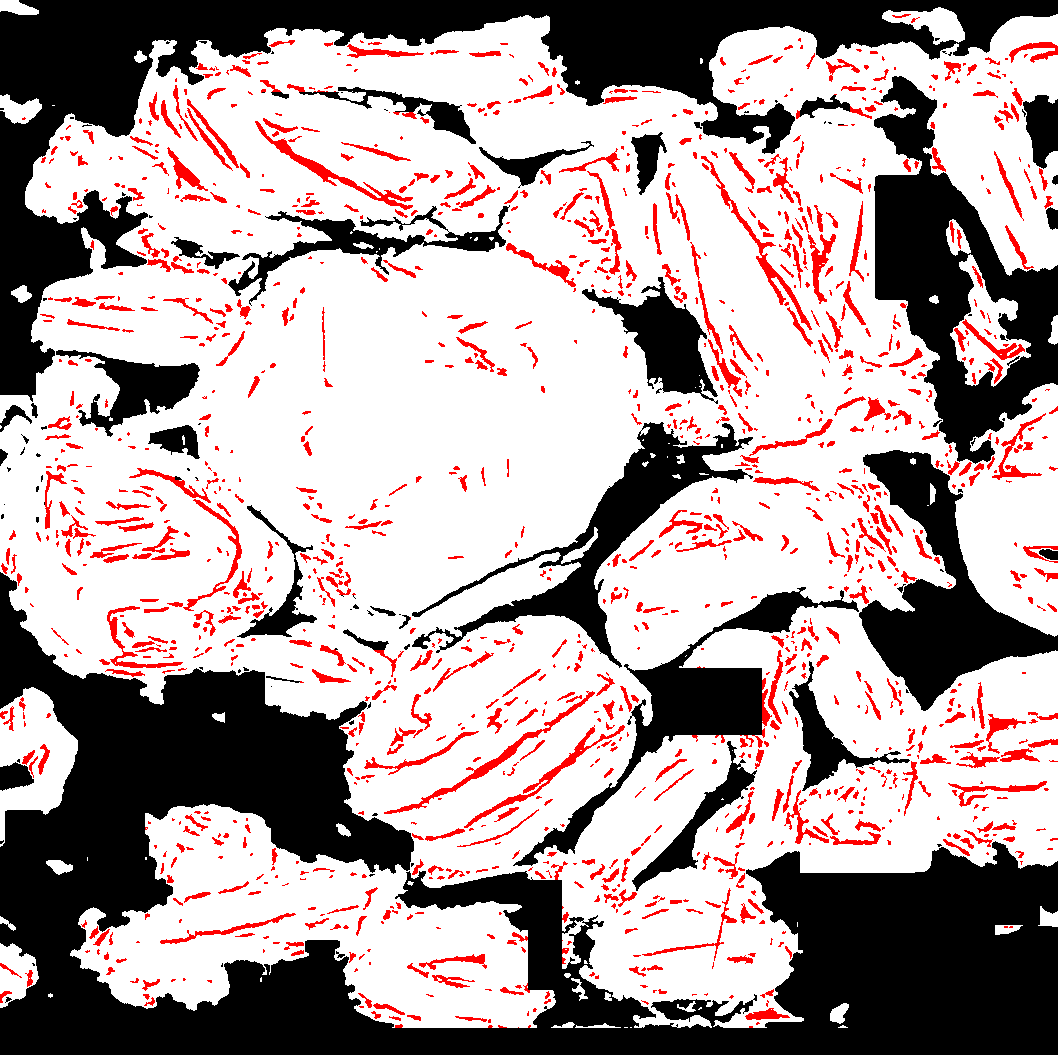
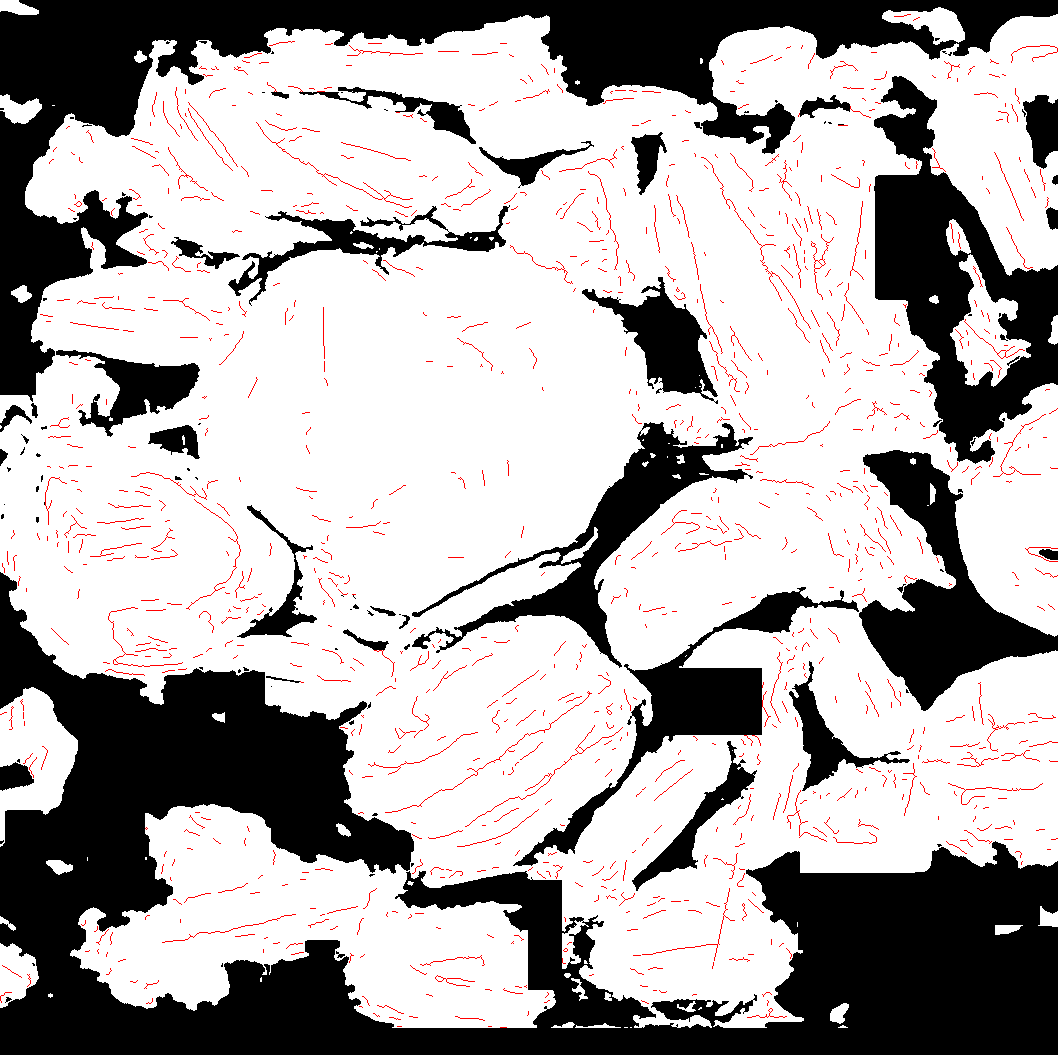
Thin sample4's cracks to their darkest one-pixel line

diff --git a/docs/dino-features.md b/docs/dino-features.md
@@ -72,7 +72,7 @@ The seeds come from brightness, so particle/pore/binder favour brightness featur
 | 1 | particle (white), pore (black), crack (red); every pixel scored | `make_truth.py`, then binder merged into pore; unscored specks under 30 px take their nearest label, wider unscored areas split at the particle edge level (141.5). Cracks are then thinned to pixels at least 12 gray levels darker than a 5 px closing of the image; crack lines lying mostly along pore are pore. Thin pore (half-width ≤ 2.5 px) more than 3 px inside a particle outline (4 px closing) is crack. Crack lines of at least 10 px within 2 px of a large particle's convex outline (pieces of 2 000 px or more) that open onto pore are gaps between particles and become pore. Second pass with sample2's gap tools (cracks counted as part of their particle for connectivity): line-filter cut with thresholds scaled by the particle–pore contrast (×1.68), rim revert, pruning and thinning; 12 hand cuts between big particles and the grain clusters touching them; then the faintest 48 of 154 added seams checked by eye and 25 joined again (502 → 619 pieces) |
 | 2 | particle (white), pore (black), crack (red); every pixel scored | `make_truth.py --scale .5 --split`, then sample1's clean-up (binder into pore, unscored filled at edge level 109.5, cracks thinned), then only long line-shaped cracks kept and each of the remaining 19 checked by eye: 6 kept. Particle outlines were then redrawn from the image: luminance smoothed at σ 0.7 above 109.5, holes up to 6 px filled, specks up to 4 px dropped; touching particles were split along thin dark lines found by an oriented line filter (hysteresis 12 / 5, see `study.md`), cuts that separate nothing or that only shave particle rims were undone, and 25 faint gaps were cut by hand along the darkest path, piece by piece. Gaps were then thinned to their darkest separating line (brightest gap pixels given back while they join nothing), and dark lines inside one particle (line score above 9, at least 2 px from the outline, 6 px long) became crack after a check by eye: 27 of 59 kept. Finally every added seam between two pieces was ranked by contrast (particle beside it minus the seam) and the 120 faintest were checked by eye: 49 with no visible gap were joined again |
 | 3 | large particle (white), small particle (blue), pore (black); every pixel scored | Background-corrected foreground (smoothed level minus a 5th-percentile background over ~60 px, above 18), holes and specks up to 20 / 6 px filled; dark seams cut with the line filter (score > 24 reaching pore, > 12 joined to it); large where a disk of radius 7 fits after the cut, regrown 4 px inside the particle; seam pixels take the nearer side; shaded faces of large particles joined to them after a check by eye (3, then 39 of 91 candidates); finally a 1 px pore line between every two particles (small: seam-cut pieces of 8 px or more; large: pieces of 150 px or more after cutting along line score > 12; other pixels take the nearest piece of their class); then a hand pass: arms split off large particles, small clusters split by a distance-map watershed (h 0.3, then 0.15), slivers under radius 2 merged, about 40 merged particles cut along the darkest path, a few classes set by eye (1,853 particles). Differs from `eval/truth/sample3_size_mask.png`, which the evaluation tables still use |
-| 4 | particle (white), pore (black), crack (red); every pixel scored | `make_sample4_truth.py`, then: bright rims within 4 px of a section joined to it; section outline = closing (r 2) of particle, holes filled; inside it, pixels darker than 40 or with black-hat (r 3) above 18 and at least 1.5 px from the outline are crack (pieces of 6 px or more), dark pieces wider than 7 px or touching the outline are pore; everything outside is pore, including the current collector; hand boxes mark surfaces behind the section plane and binder clumps as pore |
+| 4 | particle (white), pore (black), crack (red); every pixel scored | `make_sample4_truth.py`, then: bright rims within 4 px of a section joined to it; section outline = closing (r 2) of particle, holes filled; inside it, pixels darker than 40 or with black-hat (r 3) above 18 and at least 1.5 px from the outline are crack (pieces of 6 px or more, then thinned to their darkest 1 px line with spurs under 5 px removed), dark pieces wider than 7 px or touching the outline are pore; everything outside is pore, including the current collector; hand boxes mark surfaces behind the section plane and binder clumps as pore |
 
 Since then `make_truth.py` turns filled cracks outside deep particle interiors into pore. The tables below still use truth v2 in `eval/truth/`.
 

diff --git a/docs/study.md b/docs/study.md
@@ -112,4 +112,5 @@ def line_score(img, L=9, off=2.5, n=16):
 - **Crack = dark inside the outline:** close the particle mask (r 2), fill holes, then take pixels darker than 40 or with black-hat above 18, at least 1.5 px inside. A closing of r 3 sealed real gaps between stacked sections.
 - **Not a crack:** dark pieces wider than 7 px (pockets between sections) and pieces that touch the outline along 40% or more of their length (gaps between sections) are pore.
 - **Behind the section plane:** surfaces seen through pores and fluffy binder are as bright as sections. Rules cannot tell them apart; hand boxes did, plus per-box brightness splits where a box held both.
+- **Thinning cracks to 1 px:** remove crack pixels brightest first while they are simple points (8-connected crack stays one piece, background stays 4-connected) and not line ends; repeat until stable. Then drop spurs under 5 px that run from a junction to a free end, and lines under 4 px. Crack area went from 67,278 to 15,660 px and the lines follow the darkest middle of each slit. A closing-depth rule (as in sample2) did not work here: it hollowed out wide slits instead of thinning them.
 
